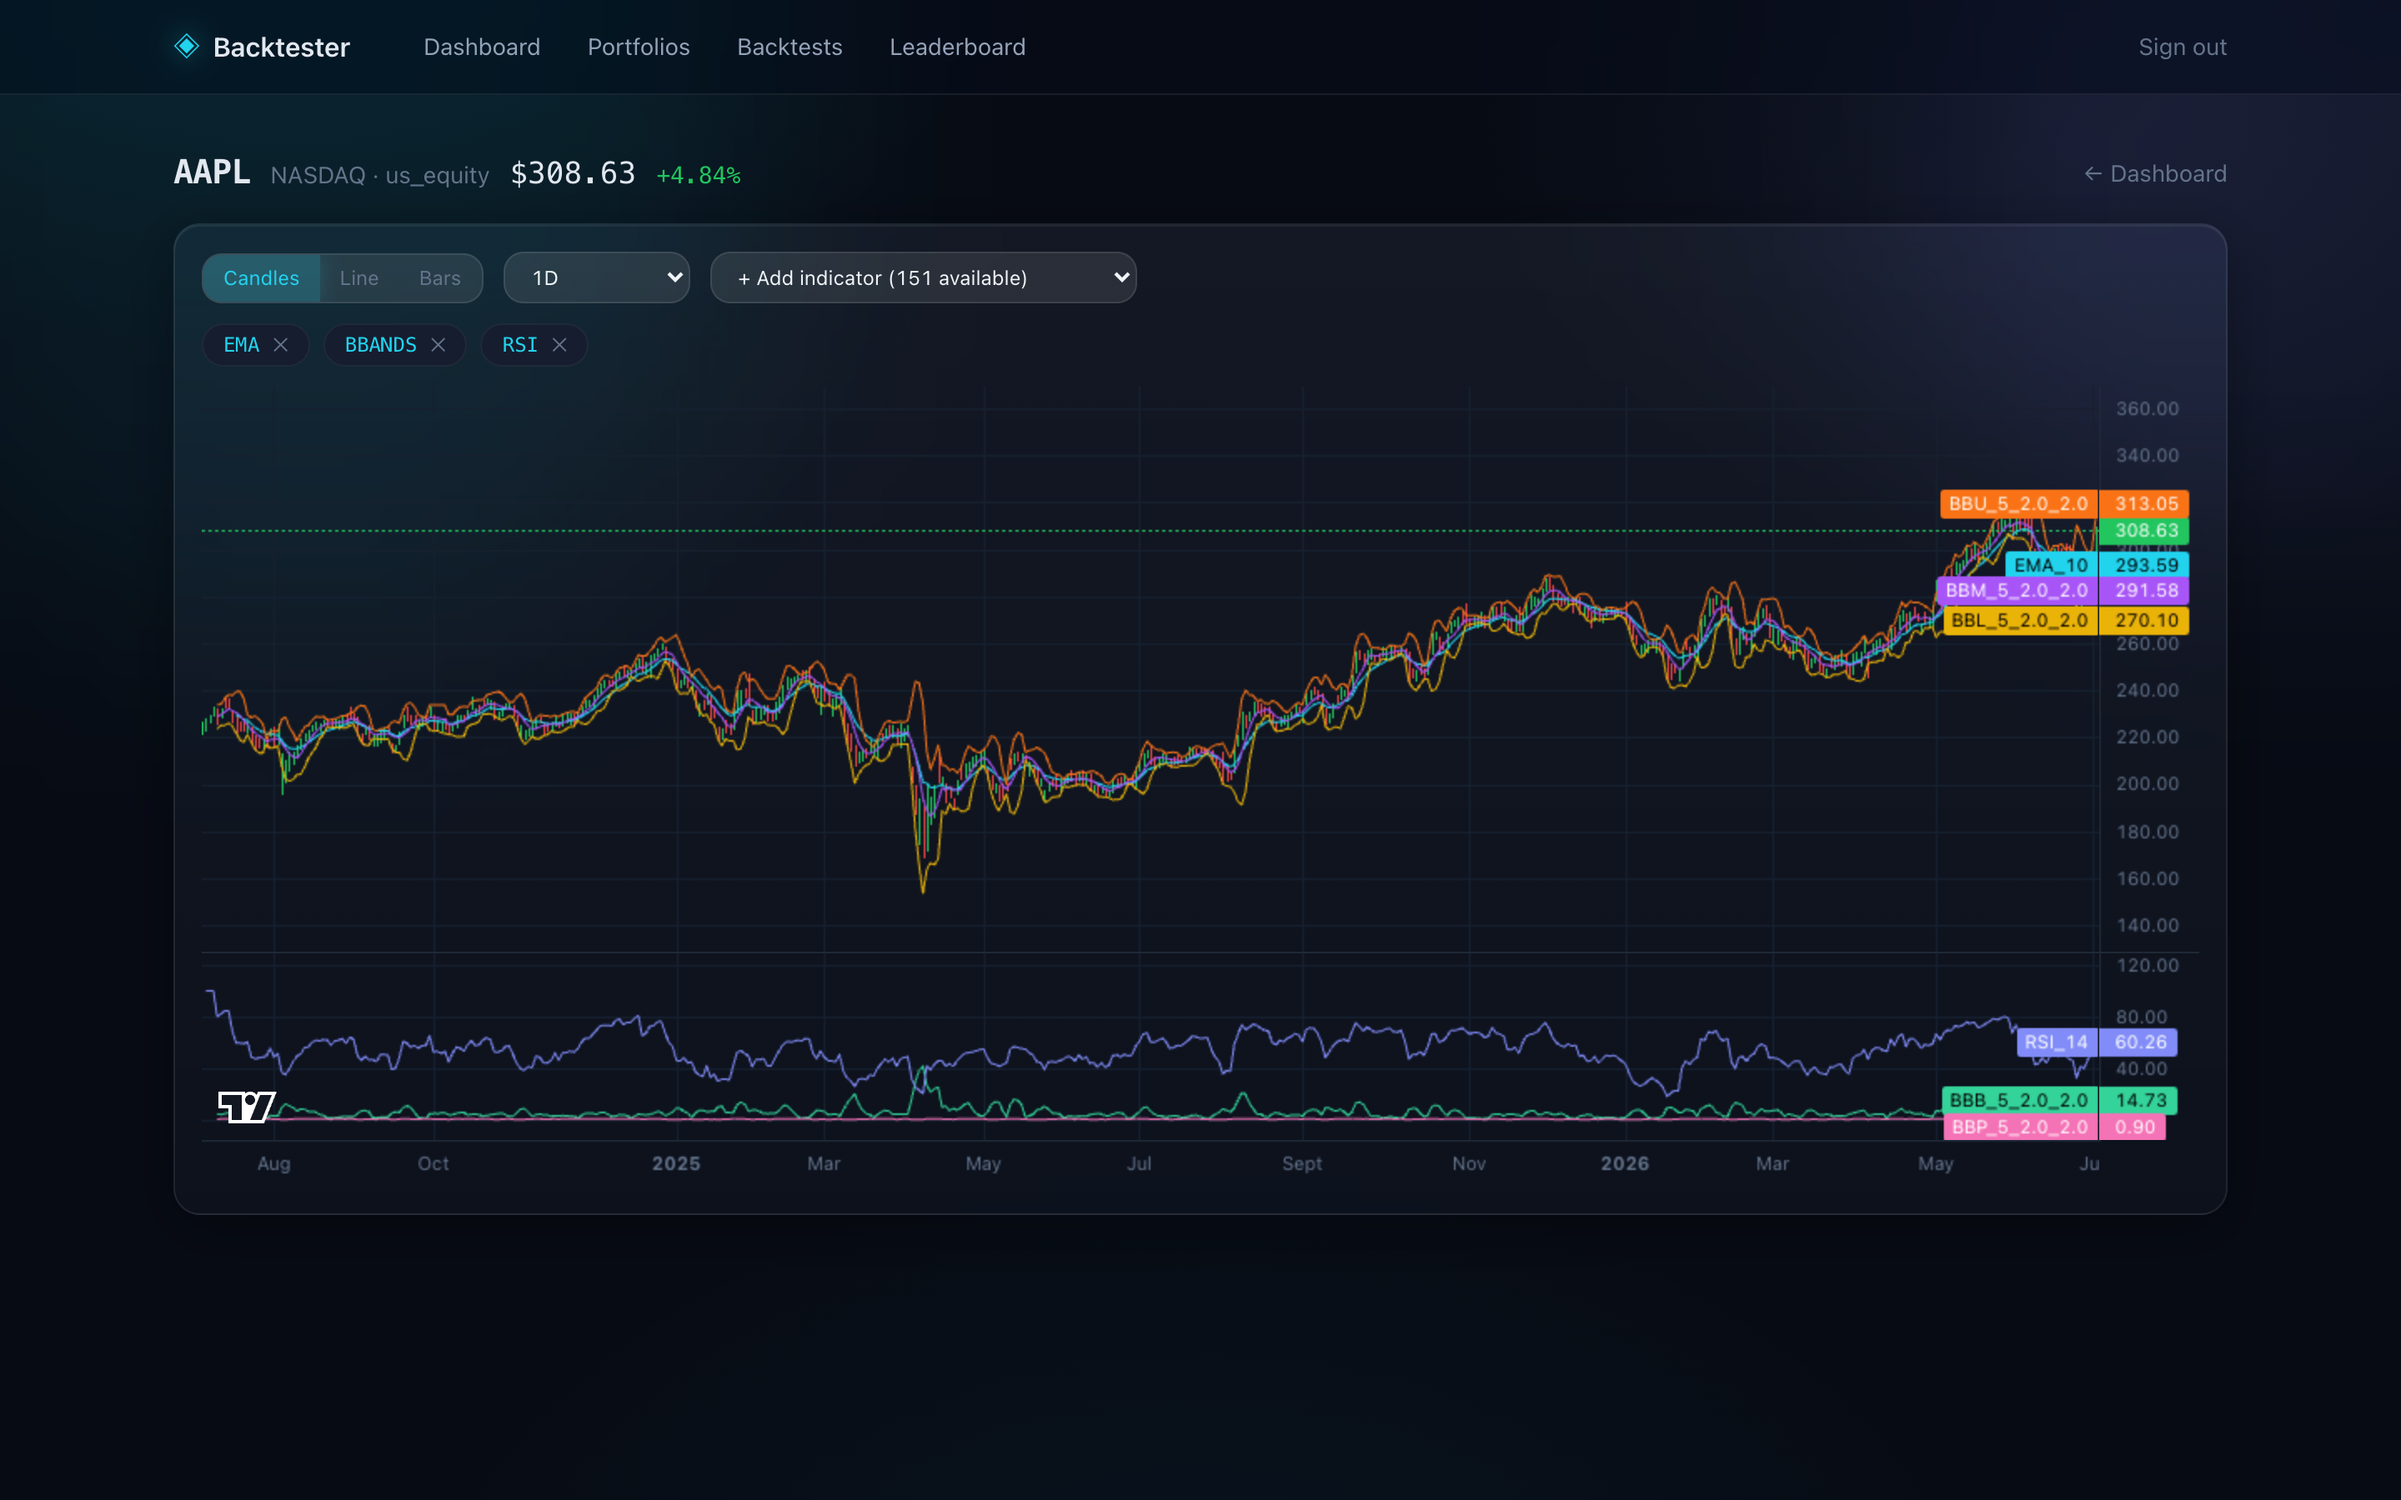
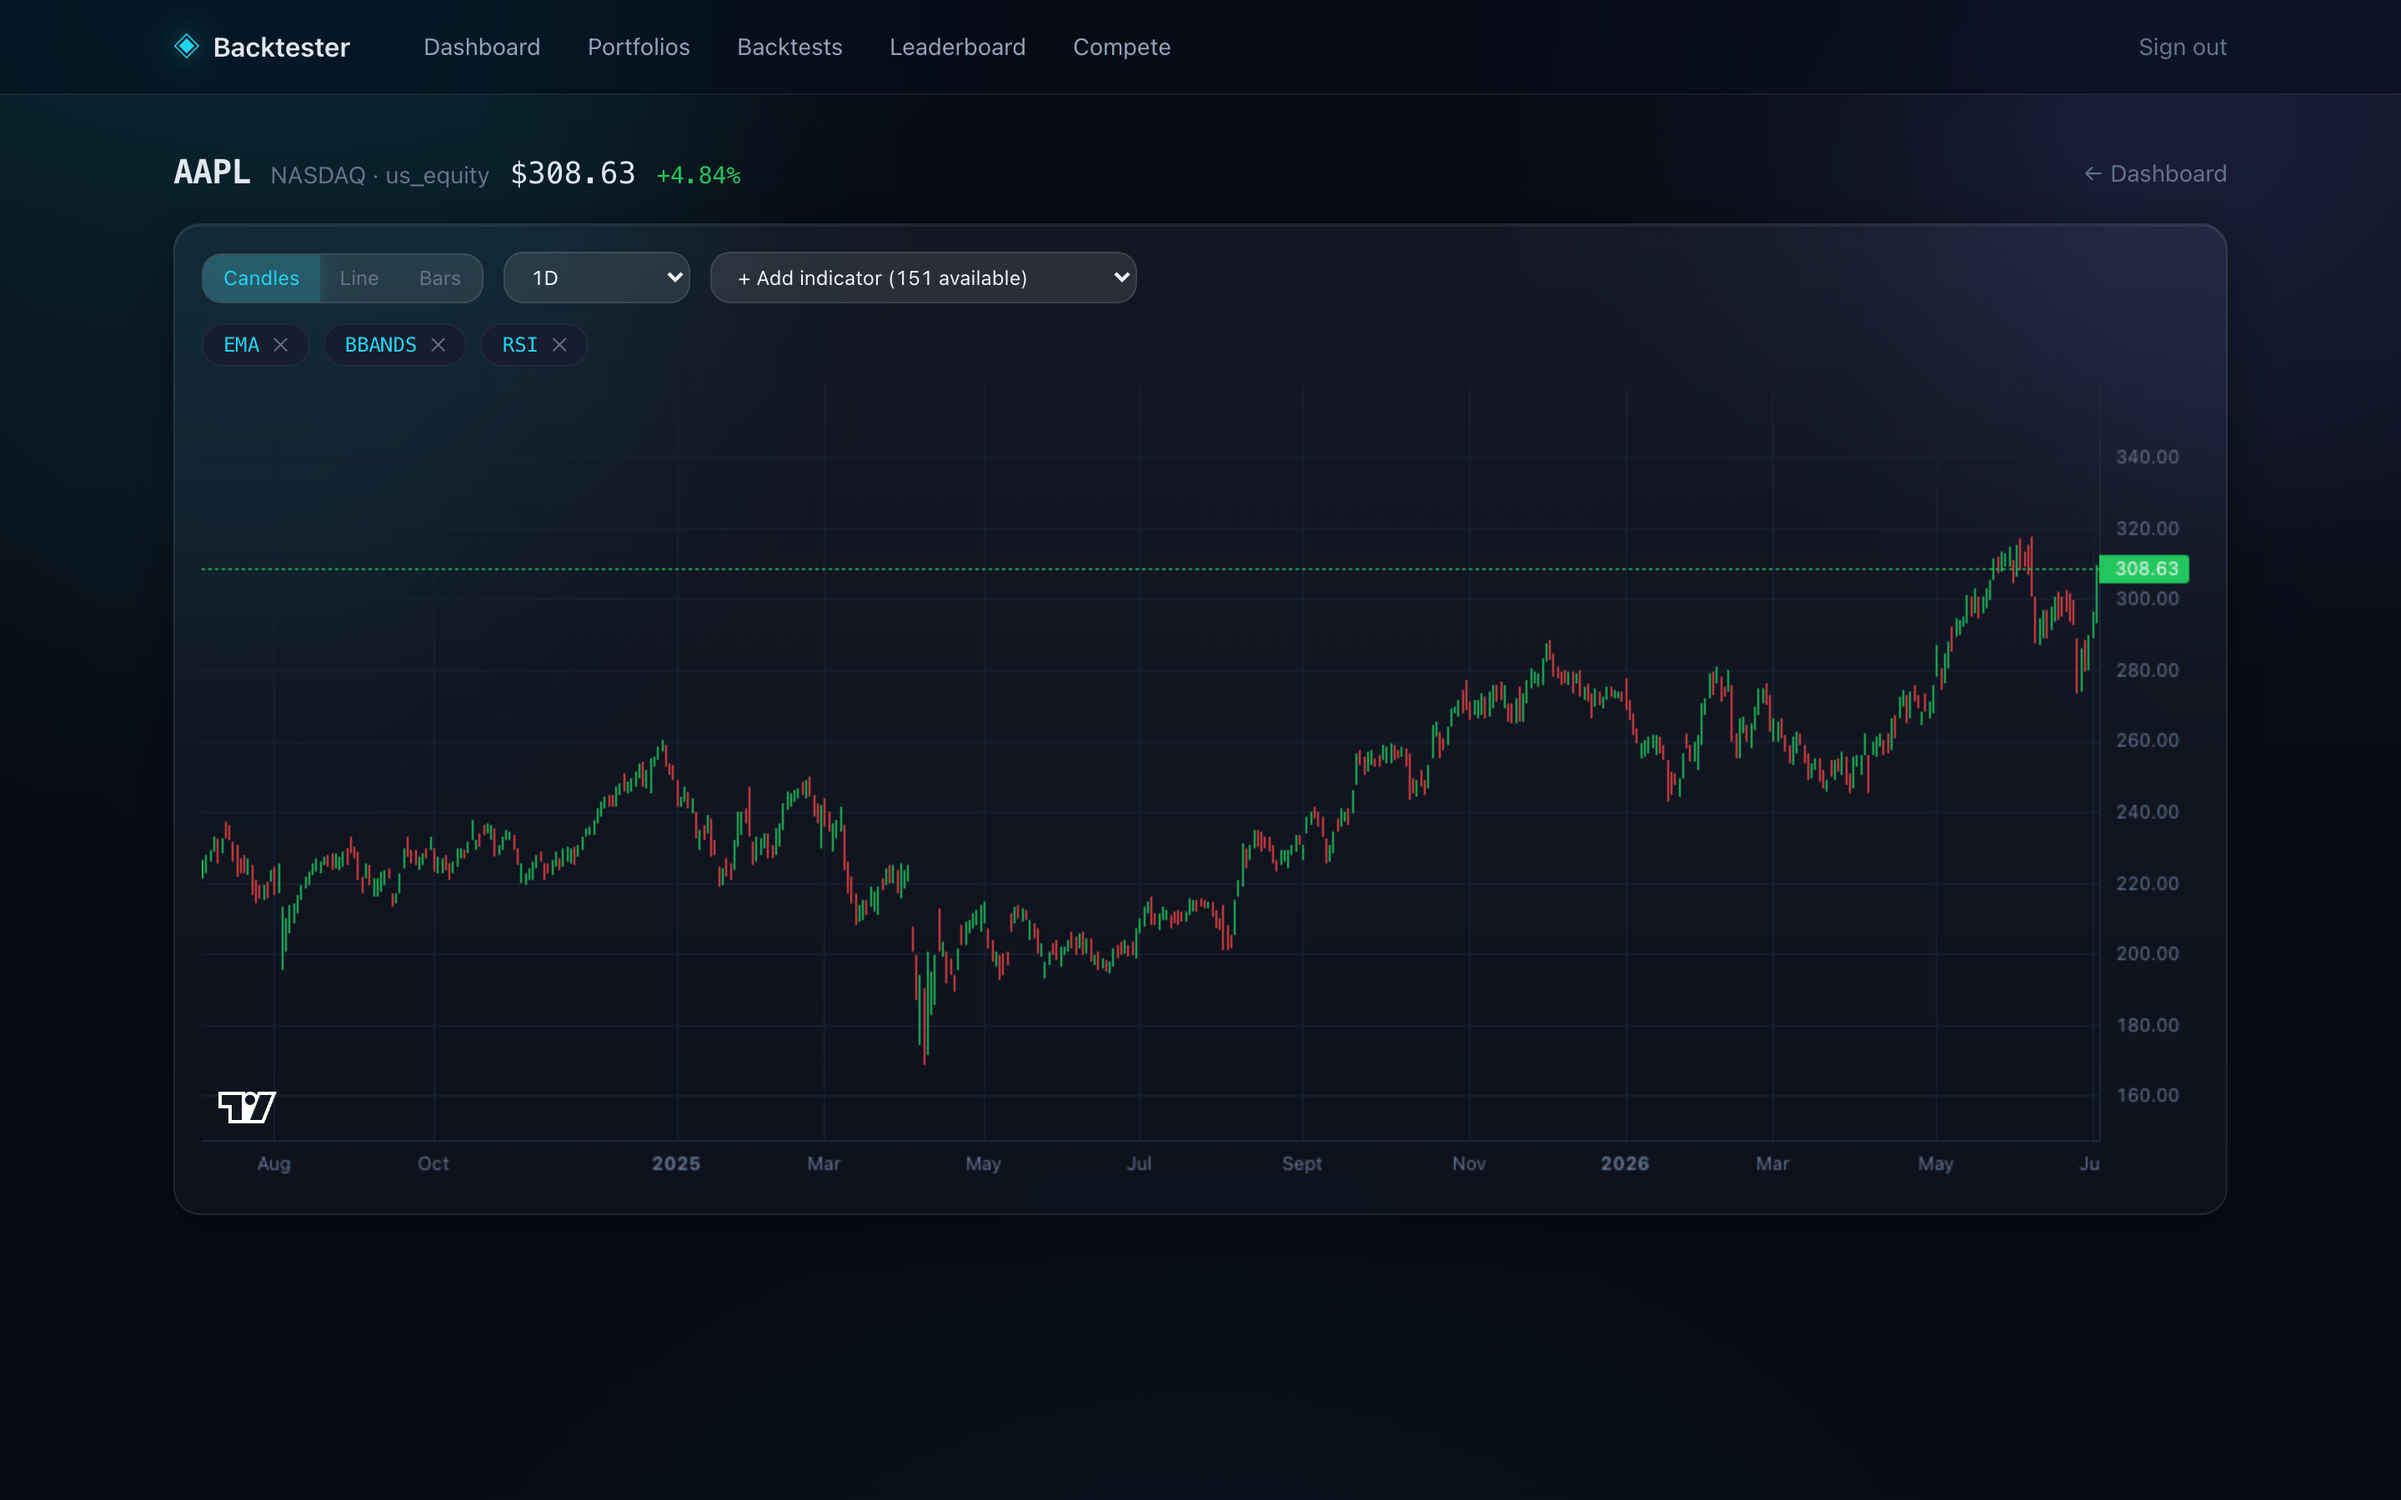
re-truth: seed social data + Compete screenshot + README embed
- demo_seed 5/5 social section: shared portfolio (invite->accept) + team chat +
  a live head-to-head competition (Alpha vs Beta), idempotent guard.
- capture-screenshots: 06-compete + resilient leaderboard step.
- Consent contract verified LIVE against the running stack: head-to-head exposes
  only {return_pct,max_drawdown_pct,sharpe,win_rate,n_trades,equity,curve};
  alice->bob positions = 404. Compete UI renders active card + countdown.

diff --git a/backend/scripts/demo_seed.py b/backend/scripts/demo_seed.py
@@ -183,6 +183,29 @@ def main() -> None:
     run_backtest(alice, "byoc: custom_code", {
         "strategy": "custom_code", "asset_id": msft, "code": template, "params": {}})
 
+    print("5/5 social: shared portfolio + chat + a live competition:")
+    if call("/challenges", token=alice):
+        print("    social data already present — skipping (idempotent re-run)")
+    else:
+        # A shared portfolio both trade in (invite -> accept), with team chat.
+        p_shared = ensure_portfolio(alice, "The Syndicate", "50000.00")
+        inv = call(f"/portfolios/{p_shared}/invites", "POST",
+                   {"invitee_email": USERS[1]["email"], "role": "trader"}, token=alice)
+        call("/portfolios/invites/accept", "POST", {"token": inv["token"]}, token=bob)  # type: ignore[index]
+        for who, body in [(alice, "gm team 👋"), (bob, "morning — AAPL looks strong"),
+                          (alice, "agreed, adding on the dip"),
+                          (bob, "I'll take the momentum side of the comp")]:
+            call(f"/portfolios/{p_shared}/chat", "POST", {"body": body}, token=who)
+        print(f"    The Syndicate ({p_shared[:8]}) — 2 members, {4} chat messages")
+
+        # A consent-based head-to-head: Alpha Capital vs Beta Fund, 1 week.
+        ch = call("/challenges", "POST", {
+            "opponent_username": USERS[1]["username"],
+            "challenger_portfolio_id": p_alice, "duration_days": 7}, token=alice)
+        call(f"/challenges/{ch['id']}/accept", "POST",  # type: ignore[index]
+             {"opponent_portfolio_id": p_bob}, token=bob)
+        print(f"    competition active: alice_demo (Alpha) vs bob_demo (Beta), 7d")
+
     front = os.environ.get("FRONTEND_URL", "http://localhost:3000")
     print("\n✔ demo ready")
     print(f"  app:       {front}   (login: {USERS[0]['email']} / {PASSWORD})")

diff --git a/README.md b/README.md
@@ -22,7 +22,9 @@ wouldn't have had.
 | ![Asset chart with indicator overlays](screenshots/02-chart.png) | ![BYOC editor rejecting an import](screenshots/03-byoc.png) |
 | ![Live dashboard](screenshots/01-dashboard.png) | ![Grafana platform overview](screenshots/05-grafana.png) |
 
-![Windowed leaderboard](screenshots/04-leaderboard.png)
+| | |
+| --- | --- |
+| ![Windowed leaderboard](screenshots/04-leaderboard.png) | ![Consent-based head-to-head competition](screenshots/06-compete.png) |
 
 > Screenshots are generated, not hand-taken: `./scripts/demo.sh` then
 > `cd frontend && node scripts/capture-screenshots.mjs` re-captures all five
